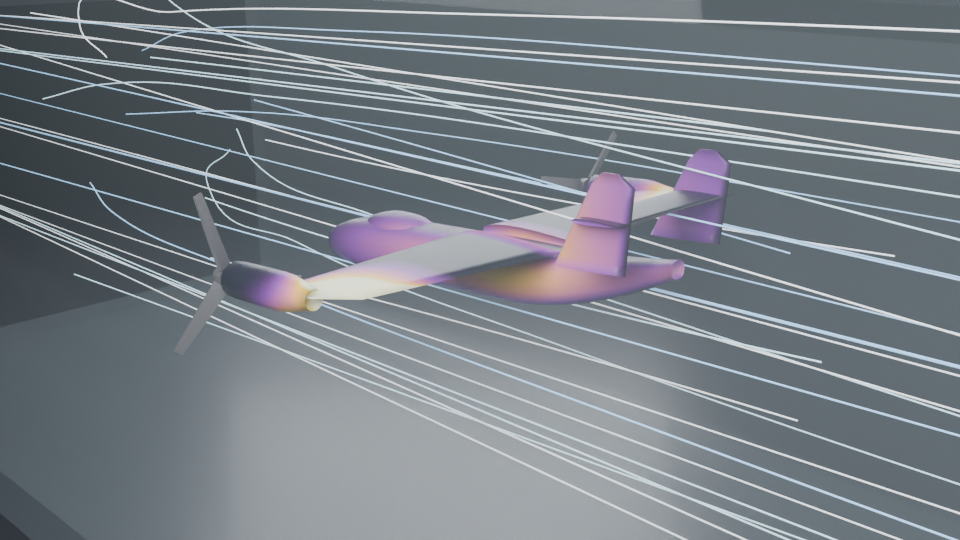
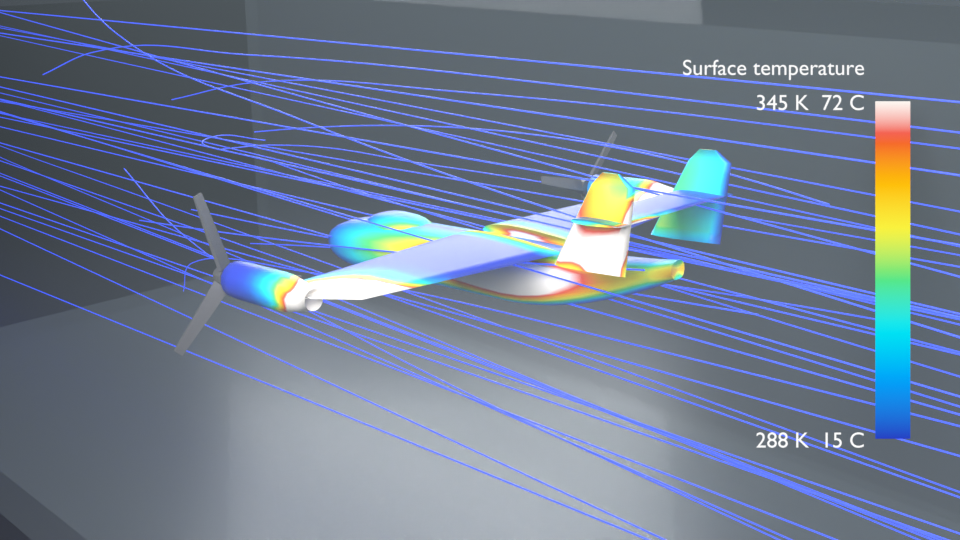
Thermal ramp default, colour bar legend, hot exhaust emitters, final windtunnel renders
Claude-Session: https://claude.ai/code/session_01FQTVSyCcMVSazjTzMiGcBr

diff --git a/arc_flow/thermal.py b/arc_flow/thermal.py
@@ -9,6 +9,7 @@ import math
 
 import bpy
 import numpy as np
+from mathutils import Vector
 from bpy.app.handlers import persistent
 from bpy.props import BoolProperty, EnumProperty, FloatProperty, PointerProperty
 from bpy.types import Operator, Panel, PropertyGroup
@@ -56,11 +57,12 @@ class AF_ThermalObj(PropertyGroup):
     domain: EnumProperty(name="Domain", items=[('POINT', "Points", "One temperature per vertex"), ('FACE', "Faces", "One temperature per face")], default='POINT', update=_changed)
     t_min: FloatProperty(name="Range min", default=288.15, description="K at the cold end of the ramp", update=_look_changed)
     t_max: FloatProperty(name="Range max", default=340.0, description="K at the hot end of the ramp", update=_look_changed)
-    ramp: EnumProperty(name="Ramp", items=TH.RAMP_ITEMS, default='INFERNO', update=_look_changed)
+    ramp: EnumProperty(name="Ramp", items=TH.RAMP_ITEMS, default='THERMAL', update=_look_changed)
     shader: BoolProperty(name="Thermal shader", default=True, update=_look_changed, description="Replace the surface material with the temperature ramp (EEVEE and Cycles). Off restores the original material")
     emission: FloatProperty(name="Glow", default=0.3, min=0.0, max=20.0, update=_look_changed, description="Emission strength of the ramp colour so it reads in any light")
     solid: BoolProperty(name="Solid viewport colour", default=True, update=_look_changed, description="Also write the 'af_thermal_color' attribute and make it the active colour so Solid mode (colour: Attribute) shows it")
     gn: BoolProperty(name="Geometry Nodes output", default=True, update=_look_changed, description="Add the 'Tessera Thermal Surface' Geometry Nodes modifier (normalised value, colour, min / mean / max outputs)")
+    legend: BoolProperty(name="Colour bar legend", default=False, update=_look_changed, description="A colour bar with the minimum and maximum temperature (K and C), attached to the scene camera, so renders carry a legend")
     couple: BoolProperty(name="Heat the fluid", default=False, description="The heat the surface exchanges with the fluid is given back to the particles as heat sources", update=_changed)
     wall_heat: FloatProperty(name="Wall heat capacity", default=4900.0, min=1.0, description="J/(m2 K): density x specific heat x thickness of the skin (2 mm aluminium = 4900)", update=_changed)
     absorb: FloatProperty(name="Absorptivity", default=0.7, min=0.0, max=1.0, description="Fraction of the radiation from heat sources that the surface absorbs", update=_changed)
@@ -457,7 +459,7 @@ def _gn_group(domain):
     b.link(out(gi, 'Max K'), inp(mr, 'From Max'))
     cr = b.node('ShaderNodeValToRGB', y=120, x=200)
     b.link(out(mr, 'Result'), inp(cr, 'Fac'))
-    st = TH.RAMPS['INFERNO']
+    st = TH.RAMPS['THERMAL']
     ramp = cr.color_ramp
     while len(ramp.elements) > 2:
         ramp.elements.remove(ramp.elements[-1])
@@ -511,10 +513,105 @@ def _solid_view(o):
             me.color_attributes.render_color_index = list(me.color_attributes).index(c)
 
 
+def _legend_names(o):
+    b = "Thermal Legend %s" % o.name
+    return b, (b + " max", b + " min", b + " title")
+
+
+def remove_legend(o):
+    b, ts = _legend_names(o)
+    for n in (b,) + ts:
+        ob = bpy.data.objects.get(n)
+        if ob is not None:
+            d = ob.data
+            bpy.data.objects.remove(ob, do_unlink=True)
+            if d is not None and d.users == 0:
+                (bpy.data.meshes if isinstance(d, bpy.types.Mesh) else bpy.data.curves).remove(d)
+
+
+def ensure_legend(o, scene=None):
+    """Colour bar with the range in K and C: a gradient plane and three text objects, parented to the scene camera (or beside the object)."""
+    sc = scene or bpy.context.scene
+    p = o.arc_flow_th
+    remove_legend(o)
+    cam = sc.camera
+    col = sc.collection
+    if cam is not None:
+        d = 1.0
+        hw = d * (cam.data.sensor_width / 2.0) / cam.data.lens
+        aspect = sc.render.resolution_y / max(sc.render.resolution_x, 1)
+        hh = hw * aspect
+        bh, bw = hh * 1.25, hh * 0.13
+        cx, cy = hw * 0.86, 0.0
+        origin = (cx, cy, -d)
+    else:
+        bh, bw, cx, cy = 0.5, 0.06, 0.0, 0.0
+        origin = tuple(o.matrix_world.translation + Vector((0.0, -1.0, 0.0)))
+    name, (tmax, tmin, ttl) = _legend_names(o)
+    n = 32
+    me = bpy.data.meshes.new(name)
+    verts = [(sx * bw / 2, (i / n - 0.5) * bh, 0.0) for i in range(n + 1) for sx in (-1, 1)]
+    faces = [(2 * i, 2 * i + 1, 2 * i + 3, 2 * i + 2) for i in range(n)]
+    me.from_pydata(verts, [], faces)
+    rgb = TH.ramp_color(np.repeat(np.linspace(0, 1, n + 1), 2), p.ramp)
+    ca = me.color_attributes.new("Legend", 'FLOAT_COLOR', 'POINT')
+    ca.data.foreach_set('color', np.concatenate([rgb, np.ones((len(rgb), 1))], axis=1).astype(np.float32).ravel())
+    me.color_attributes.active_color = ca
+    mat = bpy.data.materials.new(name)
+    nt = enable_nodes(mat)
+    nt.nodes.clear()
+    b = Builder(nt)
+    at = b.node('ShaderNodeAttribute', y=0); at.attribute_name = "Legend"; at.attribute_type = 'GEOMETRY'
+    em = b.node('ShaderNodeEmission', y=0)
+    eo = b.node('ShaderNodeOutputMaterial', y=0)
+    b.link(out(at, 'Color'), inp(em, 'Color'))
+    b.link(out(em, 'Emission'), inp(eo, 'Surface'))
+    mat.diffuse_color = (1, 1, 1, 1)
+    me.materials.append(mat)
+    plane = bpy.data.objects.new(name, me)
+    col.objects.link(plane)
+    tmat = bpy.data.materials.new(name + " text")
+    tnt = enable_nodes(tmat)
+    tnt.nodes.clear()
+    tb = Builder(tnt)
+    te = tb.node('ShaderNodeEmission', y=0)
+    inp(te, 'Color').default_value = (1, 1, 1, 1)
+    to = tb.node('ShaderNodeOutputMaterial', y=0)
+    tb.link(out(te, 'Emission'), inp(to, 'Surface'))
+    tmat.diffuse_color = (1, 1, 1, 1)
+    objs = [plane]
+    size = bh * 0.065
+    for nm, body, ty in ((tmax, "%.0f K  %.0f C" % (p.t_max, p.t_max - 273.15), bh / 2 - size * 0.4), (tmin, "%.0f K  %.0f C" % (p.t_min, p.t_min - 273.15), -bh / 2 - size * 0.4),
+                         (ttl, "Surface temperature", bh / 2 + size * 1.2)):
+        cu = bpy.data.curves.new(nm, 'FONT')
+        cu.body, cu.size = body, size
+        cu.align_x = 'RIGHT' if nm != ttl else 'RIGHT'
+        cu.materials.append(tmat)
+        t = bpy.data.objects.new(nm, cu)
+        col.objects.link(t)
+        t.location = (-bw * 0.8, ty, 0.0)
+        t.parent = plane
+        objs.append(t)
+    plane.parent = cam
+    plane.location = origin
+    if cam is None:
+        plane.rotation_euler = (math.pi / 2, 0, 0)
+    for ob in objs:
+        ob['af_th_legend'] = o.name
+    return plane
+
+
 def refresh_look(o):
     p = o.arc_flow_th
     if not p.on:
         return
+    if p.legend:
+        try:
+            ensure_legend(o)
+        except Exception as ex:
+            FO.RT.msg = "Legend: %s" % ex
+    else:
+        remove_legend(o)
     if p.shader:
         _apply_material(o)
     else:
@@ -544,6 +641,7 @@ def enable(o):
 def disable(o):
     STATE.pop(o.name, None)
     _restore_material(o)
+    remove_legend(o)
     m = o.modifiers.get(MOD_NAME)
     if m is not None:
         o.modifiers.remove(m)
@@ -647,7 +745,7 @@ class AF_PT_thermal(Panel):
         r.prop(p, "t_min"); r.prop(p, "t_max")
         col.prop(p, "ramp")
         col = l.column(align=True)
-        col.prop(p, "shader"); col.prop(p, "solid"); col.prop(p, "gn"); col.prop(p, "couple")
+        col.prop(p, "shader"); col.prop(p, "solid"); col.prop(p, "gn"); col.prop(p, "legend"); col.prop(p, "couple")
         if p.shader:
             col.prop(p, "emission")
         box = l.box()

diff --git a/docs/render_windtunnel.py b/docs/render_windtunnel.py
@@ -37,7 +37,8 @@ sc.frame_start, sc.frame_end = 1, FRAME + 2
 air = bpy.data.objects["Aircraft Airframe"]
 p = air.arc_flow_th
 p.t_min, p.t_max = 288.15, 345.0
-p.ramp = 'INFERNO'
+p.speedup, p.wall_heat = 60.0, 600.0
+p.ramp = 'THERMAL'
 p.emission = 0.0
 FO.start(sc, play=False)
 for f in range(1, FRAME + 1):
@@ -70,7 +71,7 @@ def pathlines():
     (a cubic fit in time removes the parcel jitter) and drawn as thin tubes coloured by speed."""
     cache = FO.RT.cache
     frames = [f for f in sorted(cache) if f <= FRAME][-5:]
-    n0 = min(len(cache[f]['x']) for f in sorted(cache) if f <= FRAME)
+    n0 = min(len(cache[f]["x"]) for f in frames)
     X = np.stack([cache[f]['x'][:n0] for f in frames])
     V = np.stack([np.linalg.norm(cache[f]['v'][:n0], axis=1) for f in frames])
     ctr = np.array(air.matrix_world.translation)
@@ -92,18 +93,34 @@ def pathlines():
     cu.bevel_depth = 0.002
     cu.bevel_resolution = 3
     cu.use_fill_caps = True
-    for nm, col in (("slow", (0.35, 0.65, 1.0)), ("mid", (0.6, 0.88, 1.0)), ("fast", (0.95, 0.98, 1.0))):
-        m = bpy.data.materials.new("WT_Path_" + nm)
+    NB = 8
+    ambient = float(sc.arc_flow.env.temperature)
+    lo, hi = p.t_min, p.t_max
+    for i in range(NB):
+        col = TM.TH.ramp_color(np.array([i / (NB - 1)]), 'THERMAL')[0]
+        m = bpy.data.materials.new("WT_Path_%d" % i)
         m.use_nodes = True
-        b = m.node_tree.nodes['Principled BSDF']
-        b.inputs['Base Color'].default_value = (*col, 1)
-        b.inputs['Emission Color'].default_value = (*col, 1)
-        b.inputs['Emission Strength'].default_value = 0.9
-        b.inputs['Roughness'].default_value = 0.4
+        bs = m.node_tree.nodes['Principled BSDF']
+        bs.inputs['Base Color'].default_value = (*col, 1)
+        bs.inputs['Emission Color'].default_value = (*col, 1)
+        bs.inputs['Emission Strength'].default_value = 1.6
+        bs.inputs['Roughness'].default_value = 0.4
         m.diffuse_color = (*col, 1)
         cu.materials.append(m)
-    vmean = V.mean(axis=0)
-    q = np.quantile(vmean[pick], [0.33, 0.66]) if pick else (0, 0)
+    Tm = np.stack([cache[f]['T'][:n0] for f in frames]).mean(axis=0)
+    # hot plume tracers: the hottest particles downstream of the exhausts
+    ex = [np.array(e.matrix_world.translation) for e in bpy.data.objects if e.name.startswith("Engine Exhaust")]
+    hot = []
+    if ex:
+        dd = np.min([np.linalg.norm(last - e, axis=1) for e in ex], axis=0)
+        cand = np.flatnonzero((dd < 1.4) & (last[:, 0] > min(e[0] for e in ex) - 0.05) & (net > 0.25))
+        cand = cand[Tm[cand] < ambient + 400.0]
+        cand = cand[np.argsort(-Tm[cand])][:14]
+        for j in cand:
+            if all(np.linalg.norm(last[j] - last[i]) > 0.05 for i in hot):
+                hot.append(j)
+    print("plume tracers", len(hot), "hottest tracer %.1f K" % (Tm[hot].max() if hot else 0), flush=True)
+    pick = list(pick) + [j for j in hot if j not in pick]
     tt = np.linspace(-1, 1, len(frames))
     ts = np.linspace(-1, 1, 12)
     for j in pick:
@@ -113,7 +130,7 @@ def pathlines():
         for bp, pt in zip(sp.bezier_points, sm):
             bp.co = pt
             bp.handle_left_type = bp.handle_right_type = 'AUTO'
-        sp.material_index = 0 if vmean[j] < q[0] else (1 if vmean[j] < q[1] else 2)
+        sp.material_index = int(np.clip((Tm[j] - lo) / max(hi - lo, 1e-6), 0, 1) * (NB - 1))
     print("pathlines", len(pick), "candidates", len(ok_), flush=True)
     o = bpy.data.objects.new("WT_Paths", cu)
     sc.collection.objects.link(o)
@@ -170,10 +187,12 @@ for case in CASES:
         sc.cycles.samples = SAMPLES
         sc.cycles.use_denoising = True
         sc.cycles.max_bounces = 5
-        sc.view_settings.view_transform = 'AgX'
+        sc.view_settings.view_transform = 'Standard'
         scene_look()
         pathlines()
         camera((1.9, -1.9, 1.55), (ctr.x + 0.0, 0.0, ctr.z - 0.02), 42)
+        p.legend = False
+        p.legend = True
         r.filepath = os.path.join(OUT, 'windtunnel_thermal.png')
     else:
         r.engine = 'BLENDER_WORKBENCH'
@@ -193,6 +212,8 @@ for case in CASES:
         tun = bpy.data.objects["Wind Tunnel"]
         tun.hide_render = True
         camera((-1.7, -2.6, 1.7), (ctr.x + 0.1, 0.0, ctr.z - 0.1), 32)
+        p.legend = False
+        p.legend = True
         r.filepath = os.path.join(OUT, 'windtunnel_viewport.png')
     bpy.ops.render.render(write_still=True)
     print("rendered", r.filepath, flush=True)

diff --git a/arc_flow/windtunnel.py b/arc_flow/windtunnel.py
@@ -492,18 +492,52 @@ def add_aircraft(scene, location=None, thermal=True, spin_frames=(1, 250), rpm=1
         e.matrix_parent_inverse = air.matrix_world.inverted()
         e.location = tuple(p)          # parent inverse is identity (the airframe was still at the origin when parented)
         e.arc_flow_fm.heat_on = True
-        e.arc_flow_fm.heat_power = 1500.0
-        e.arc_flow_fm.heat_radius = 0.10
+        e.arc_flow_fm.heat_power = 2500.0
+        e.arc_flow_fm.heat_radius = 0.12
         heats.append(e)
+    nozzles = []
+    try:
+        from . import surfaces_ops as SO
+        for i, p in enumerate(vtol.EXHAUSTS):
+            side = "R" if i == 0 else "L"
+            bm = bmesh.new()
+            bmesh.ops.create_grid(bm, x_segments=1, y_segments=1, size=0.5)
+            for v in bm.verts:
+                v.co = (0.0, v.co.x * 0.07, v.co.y * 0.07)
+            nz = _mesh_obj("Engine Nozzle %s" % side, bm, col)
+            nz.parent = air
+            nz.location = (p[0] - 0.035, p[1], p[2])
+            nz.hide_render = True
+            nz.display_type = 'WIRE'
+            sr = SO.srf(scene)
+            e = sr.items.add()
+            e.kind, e.name, e.obj, e.preset = 'EMISSION', "Exhaust %s" % side, nz, 'AIR'
+            e.rate, e.speed, e.spread, e.temperature = 500.0, 22.0, 6.0, 460.0
+            e.max_particles = 3000
+            SO.store_faces(e, np.ones(len(nz.data.polygons), bool))
+            SO.sync_source(scene, e)
+            fl = SO.fluid_of(scene, e)
+            if fl is not None:
+                fl.color = (1.0, 0.7, 0.4)
+                fl.render_mode = 'POINTS'
+                fl.particle_scale = 0.5
+            try:
+                from . import surfaces_gn as SGN
+                SGN.ensure_modifier(nz, e)
+            except Exception:
+                pass
+            nozzles.append(nz)
+    except Exception as ex:
+        FO.RT.msg = "Engine exhaust emitters: %s" % ex
     for o in [air] + rotors:
         mark_body(o)
     air.arc_flow_fm.friction = 0.15
     for r in rotors:
         r.arc_flow_fm.friction = 0.6
     if thermal:
-        air.arc_flow_th.t_min, air.arc_flow_th.t_max = 288.15, 312.0
-        air.arc_flow_th.speedup = 400.0
-        air.arc_flow_th.ramp = 'COLD_HOT'
+        air.arc_flow_th.t_min, air.arc_flow_th.t_max = 288.15, 345.0
+        air.arc_flow_th.speedup = 60.0
+        air.arc_flow_th.wall_heat = 600.0
         air.arc_flow_th.on = True
     return air, rotors, heats
 
@@ -530,7 +564,7 @@ def _linear(o):
 
 def load_example(scene, with_thermal=True):
     """Example: Wind tunnel.  Clears the previous tunnel objects and builds tunnel, air, aircraft, thermal readback."""
-    for n in ("Aircraft Rotor R", "Aircraft Rotor L", "Aircraft Airframe", "Engine Exhaust R", "Engine Exhaust L"):
+    for n in ("Aircraft Rotor R", "Aircraft Rotor L", "Aircraft Airframe", "Engine Exhaust R", "Engine Exhaust L", "Engine Nozzle R", "Engine Nozzle L"):
         _remove(n)
     wt = scene.arc_flow_wt
     wt.source, wt.atmosphere = 'PRESET', 'EARTH'

diff --git a/arc_flow/core/thermal.py b/arc_flow/core/thermal.py
@@ -24,6 +24,8 @@ SIGMA = 5.670374e-8
 H_NATURAL = 5.0
 
 RAMPS = {
+    'THERMAL': [(0.00, (0.02, 0.05, 0.55)), (0.17, (0.00, 0.35, 0.95)), (0.33, (0.00, 0.80, 0.90)), (0.48, (0.10, 0.80, 0.20)),
+                (0.62, (0.95, 0.90, 0.05)), (0.76, (1.00, 0.50, 0.00)), (0.90, (0.90, 0.07, 0.03)), (1.00, (1.00, 0.95, 0.90))],
     'INFERNO': [(0.00, (0.001, 0.000, 0.014)), (0.20, (0.258, 0.039, 0.406)), (0.40, (0.578, 0.148, 0.404)),
                 (0.60, (0.865, 0.317, 0.226)), (0.80, (0.988, 0.645, 0.040)), (1.00, (0.988, 1.000, 0.645))],
     'TURBO': [(0.00, (0.190, 0.072, 0.232)), (0.17, (0.275, 0.440, 0.900)), (0.35, (0.100, 0.800, 0.800)),
@@ -32,11 +34,11 @@ RAMPS = {
                  (0.70, (0.960, 0.600, 0.200)), (1.00, (0.800, 0.050, 0.030))],
     'GRAY': [(0.00, (0.02, 0.02, 0.02)), (1.00, (1.0, 1.0, 1.0))],
 }
-RAMP_ITEMS = [('INFERNO', "Inferno", "Black, purple, orange, pale yellow"), ('TURBO', "Turbo", "Blue, green, yellow, red"),
+RAMP_ITEMS = [('THERMAL', "Thermal", "Deep blue, cyan, green, yellow, orange, red, white-hot"), ('INFERNO', "Inferno", "Black, purple, orange, pale yellow"), ('TURBO', "Turbo", "Blue, green, yellow, red"),
               ('COLD_HOT', "Cold to hot", "Blue, white, red"), ('GRAY', "Grayscale", "")]
 
 
-def ramp_color(t, ramp='INFERNO'):
+def ramp_color(t, ramp='THERMAL'):
     """Colour (n, 3) for normalised values t in [0, 1] (piecewise linear, same stops as the shader ramp)."""
     t = np.clip(np.asarray(t, float), 0.0, 1.0)
     st = RAMPS[ramp]

diff --git a/tests/test_thermal.py b/tests/test_thermal.py
@@ -78,7 +78,8 @@ ok(src and abs(tot - 20.0 * 50.0 * 4.0 * 1.0) / (20.0 * 50.0 * 4.0) < 0.2 and al
 ok(all(s[1] < 0 for s in TH.patch_sources(Pp, area, np.full(400, 250.0), info, 0.5)), "cold wall cools the fluid")
 
 # ramp
-c = TH.ramp_color(np.array([0.0, 0.5, 1.0]), 'INFERNO')
+c = TH.ramp_color(np.array([0.0, 0.5, 1.0]), 'THERMAL')
+ok(c[0][2] > c[0][0] and c[1][1] > c[1][2] and c[2].min() > 0.85, 'thermal ramp: blue cold, green middle, white hot')
 ok(c.shape == (3, 3) and c[0].sum() < c[2].sum(), "ramp colours")
 print("FAILED %d" % fails[0] if fails[0] else "ALL PASS")
 sys.exit(1 if fails[0] else 0)

diff --git a/CHANGELOG.md b/CHANGELOG.md
@@ -10,11 +10,10 @@
 - Fluid mode: **viscosity surface is bidirectional.** A surface on a dynamic body (Blender: the surface object is a two-way body) drags the fluid and the fluid's drag and excess pressure act back on the body as force and torque about its centre of mass (explicit, one frame of lag), moving it when it is free or constrained (slider, hinge).
 - Fluid mode: **smooth merged liquid surface.** Liquids render by default as one continuously updated surface (`SurfaceBuilder`: trilinear splat, Gaussian blur, EMA temporal blend, surface nets, density-weighted vertex colour), so touching blobs of different fluids join with a neck and blend colour across the seam, with no flicker. The glass-of-colours stills are re-rendered with it.
 - Tests: `test_gas_pressure`, `test_surface_coupling`, `test_surface_builder` in `tests/test_fluidmode.py`.
-- Fluid mode: **Thermal readback** (`thermal.py`, `core/thermal.py`). Select an object (or its faces in Edit Mode, *Use Selected Faces*) of a collision body and enable it: every point or face carries a wall temperature that follows the solver particles around it (kernel probe, recovery temperature `T + r v^2 / 2cp`, flat-plate convection with a natural-convection floor, radiation from heat sources with inverse-square and facing factor, stagnation heating of windward faces, lumped wall heat capacity, re-radiation, exact exponential step). It is written each frame to the `af_temperature` attribute (point or face domain) and to a colour attribute `af_thermal_color` (Solid viewport, colour: Attribute); the shader (colour ramp, range min / max, glow) shows it in EEVEE and Cycles, and an optional Geometry Nodes modifier / group `Tessera Thermal Surface (Point|Face)` outputs the normalised value, the ramp colour and min / mean / max. Per-object toggle, ramp (Inferno, Turbo, Cold to hot, Grayscale), absorptivity, wall heat capacity, probe radius and time scale. *Heat the fluid* gives the exchanged heat back to the particles as heat sources. Moving and deforming bodies are read from the evaluated mesh; scrubbing reuses the per-frame cache.
-- **Shader presets** (`shader_presets.py`, `shader_ops.py`): 22 node-built, Cycles + EEVEE materials (Water, Sea water, Glass, Thin-wall glass, Oil, Honey, Syrup, Milk / cream, Wax, Lava / magma, Mercury, Molten metal, Slime / goo, Blood, Ice, Crystal, Smoke, Steam, Soot, Flame, Plasma, Gas cloud) with exposed parameters (`TS_*` nodes: colour, absorption density, IOR, roughness, subsurface, emission ...), attribute inputs (`fm_color` tint, `fm_temperature` blackbody / crust / glow, `fm_density` scaling) and variants: full (refraction + absorption volume), particle (no refraction, volumes add up), preview (Principled only) and grid (OpenVDB `density` / `temperature`). Socket names are resolved at runtime (4.x / 5.x). New *Shader presets* panel: preset dropdown, assign to selected / active, create from preset, preview mode, Cycles shadow-caustics set-up, per-fluid shader (Auto = default of the fluid preset), assign preset to selected fluid(s); works on meshes, curves, text, volumes. Examples use the shaders (thin-wall glass vessels, water, wax). Reference `docs/SHADERS.md`. Reference `docs/SHADERS.md`. Tests `tests/test_shaders_bpy.py`; renders `docs/render_shaders.py`, `docs/renders/shaders_*.png`.
-- Fluid mode: **Thermal readback** (`thermal.py`, `core/thermal.py`). Select an object (or its faces in Edit Mode, *Use Selected Faces*) of a collision body and enable it: every point or face carries a wall temperature that follows the solver particles around it (kernel probe, recovery temperature `T + r v^2 / 2cp`, flat-plate convection with a natural-convection floor, radiation from heat sources with inverse-square and facing factor, lumped wall heat capacity, exact exponential step). It is written each frame to the `af_temperature` attribute (point or face domain) and to a colour attribute `af_thermal_color` (Solid viewport, colour: Attribute); the shader (colour ramp, range min / max, glow) shows it in EEVEE and Cycles, and an optional Geometry Nodes modifier / group `Tessera Thermal Surface (Point|Face)` outputs the normalised value, the ramp colour and min / mean / max. Per-object toggle, ramp (Inferno, Turbo, Cold to hot, Grayscale), absorptivity, wall heat capacity, probe radius and wall speed-up. *Heat the fluid* gives the exchanged heat back to the particles as heat sources. Moving and deforming bodies are read from the evaluated mesh; scrubbing reuses the per-frame cache.
+- **Shader presets** (`shader_presets.py`, `shader_ops.py`): 22 node-built, Cycles + EEVEE materials (Water, Sea water, Glass, Thin-wall glass, Oil, Honey, Syrup, Milk / cream, Wax, Lava / magma, Mercury, Molten metal, Slime / goo, Blood, Ice, Crystal, Smoke, Steam, Soot, Flame, Plasma, Gas cloud) with exposed parameters (`TS_*` nodes: colour, absorption density, IOR, roughness, subsurface, emission ...), attribute inputs (`fm_color` tint, `fm_temperature` blackbody / crust / glow, `fm_density` scaling) and variants: full (refraction + absorption volume), particle (no refraction, volumes add up), preview (Principled only) and grid (OpenVDB `density` / `temperature`). Socket names are resolved at runtime (4.x / 5.x). New *Shader presets* panel: preset dropdown, assign to selected / active, create from preset, preview mode, Cycles shadow-caustics set-up, per-fluid shader (Auto = default of the fluid preset), assign preset to selected fluid(s); works on meshes, curves, text, volumes. Examples use the shaders (thin-wall glass vessels, water, wax). Tests `tests/test_shaders_bpy.py`; renders `docs/render_shaders.py`, `docs/renders/shaders_*.png`.
+- Fluid mode: **Thermal readback** (`thermal.py`, `core/thermal.py`). Select an object (or its faces in Edit Mode, *Use Selected Faces*) of a collision body and enable it: every point or face carries a wall temperature that follows the solver particles around it (kernel probe, recovery temperature `T + r v^2 / 2cp`, flat-plate convection with a natural-convection floor, radiation from heat sources with inverse-square and facing factor, stagnation heating of windward faces, lumped wall heat capacity, re-radiation, exact exponential step). It is written each frame to the `af_temperature` attribute (point or face domain) and to a colour attribute `af_thermal_color` (Solid viewport, colour: Attribute); the shader (colour ramp, range min / max, glow) shows it in EEVEE and Cycles, and an optional Geometry Nodes modifier / group `Tessera Thermal Surface (Point|Face)` outputs the normalised value, the ramp colour and min / mean / max. Per-object toggle, ramp (Thermal default: deep blue, cyan, green, yellow, orange, red, white-hot; Inferno, Turbo, Cold to hot, Grayscale), an optional colour bar legend (gradient plane and K / C labels parented to the camera), absorptivity, wall heat capacity, probe radius and time scale. *Heat the fluid* gives the exchanged heat back to the particles as heat sources. Moving and deforming bodies are read from the evaluated mesh; scrubbing reuses the per-frame cache.
 - Fluid mode: **Wind tunnel** builder (`windtunnel.py`): a hollow box with a real wall thickness (open ends or closed) as the Environment container, a Wind Emitter (an Emission surface at the inlet, rate capped) plus an air slug that fills the test section, atmosphere from the Blender scene, an assigned container or a preset (Earth, Mars, Venus, Titan, Moon, vacuum, custom gas with pressure, temperature, gravity and compound; the Air fluid gets its density, viscosity, cp and conductivity from the gas). *Add Collision Body* / *Add Plain Body*: a **plain collision body** only responds to the fluid (no heat source, no thermal readback, no Systems role). Moving parts (object animation) are moving colliders; shape-key / armature deformers re-project their collision field every frame. Parts with Container / Channel / Chamber roles inside the tunnel stay independent Systems.
-- Example: **Example: Wind tunnel** (Examples panel): the tunnel, the wind and a tilt-rotor VTOL with spinning rotors, engine exhaust heat sources and thermal readback on its skin. The DART Skyboard game's VTOL could not be reached from the available repositories (the only Skyboard asset there is an unrelated part), so the aircraft is a procedural stand-in (`assets/vtol.py`, about 2000 vertices, no binary data).
+- Example: **Example: Wind tunnel** (Examples panel): the tunnel, the wind and a tilt-rotor VTOL with spinning rotors, engine exhaust heat sources and hot exhaust emitters and thermal readback on its skin. The DART Skyboard game's VTOL could not be reached from the available repositories (the only Skyboard asset there is an unrelated part), so the aircraft is a procedural stand-in (`assets/vtol.py`, about 2000 vertices, no binary data).
 - Tests: `tests/test_thermal.py` (NumPy), `tests/test_windtunnel_bpy.py`; renders `docs/render_windtunnel.py`, `docs/renders/windtunnel_*.png`.
 - Fluid mode: **Viscosity surface** and **Emission surface** sources. Buttons *Use selected object*, *Edit faces* (Edit Mode, stored faces preselected) and *Apply* (stores a boolean face attribute). Viscosity: tangential drag of the adjacent fluid with a viscosity coefficient and no-slip fraction, moving surfaces drag the fluid, reaction force read back. Emission: particles/s along the face normal with speed, spread cone, temperature, fluid preset, start / stop, cap; the solver grows its arrays and snapshots stay exact (scrubbing, Reset).
 - Fluid mode: **Add Fluid Volume** (non-rendering wireframe-box Empty, scale it with the manipulators): quantity, density, pressure, temperature and preset; free-floating gas / fluid that interacts with the Environment from the first frame.

diff --git a/docs/TECHNICAL.md b/docs/TECHNICAL.md
@@ -274,6 +274,7 @@ Tests: `blender -b --factory-startup --python tests/test_gn_blender.py` (groups,
 **Thermal readback** (`thermal.py` Blender bridge, `core/thermal.py` NumPy model; tests `tests/test_thermal.py`, `tests/test_windtunnel_bpy.py`). Sidebar: Fluid mode > Thermal readback (active object).
 - Samples: every mesh point or face centre of the selected object (Edit Mode faces via *Use Selected Faces*, stored in the face attribute `af_th_mask`). Positions and normals come from the evaluated mesh, so shape keys, armatures and object / parent animation move the samples; if a generative modifier changes the topology the original mesh is used instead.
 - Model: per sample the particles inside the probe radius (default 2.2 particle spacings; for sparse gas the spacing is the volume one parcel stands for) are averaged with the weight (1 - d/h)^2 to T_f, v_f, cp, k, rho, mu; coverage = kernel weight / the weight of a fully packed half space. Recovery temperature T_r = T_f + r |v_f - v_wall|^2 / 2cp (r = 0.85); target T_eq = c T_r + (1 - c) T_ambient; convection h = max(Nu k / L, 5 W/(m2 K) k/k_air) with the flat-plate Nusselt number (laminar 0.664 Re^1/2 Pr^1/3, turbulent 0.037 Re^4/5 Pr^1/3, L = object size); absorbed radiation alpha P / (4 pi d^2) cos(angle) from every heat-source object (distance floored at the source radius); re-radiation eps sigma (T^4 - T_amb^4) linearised; lumped wall of areal heat capacity C_a (default 4900 J/(m2 K) = 2 mm aluminium); exact exponential step, so it is unconditionally stable. *Time scale* (default 1 = real time; the example uses 20 with a 1 mm skin of 1500 J/(m2 K)) multiplies the wall's time step because a metal skin needs minutes to heat. Windward faces also get stagnation heating r |v_inf|^2 cos^2 / 2cp from the Environment wind (about 0.1 K at 14 m/s: the visible gradient in the example comes from the engine exhaust heat sources).
+- Colour bar: *Colour bar legend* adds `Thermal Legend <object>` (gradient plane with a colour attribute for Workbench, text labels with min / max in K and C) parented to the scene camera. Default ramp *Thermal* (deep blue, cyan, green, yellow, orange, red, white-hot).
 - Output: `af_temperature` (FLOAT, point or face domain), `af_thermal_color` (colour attribute, point or corner domain, for Solid mode with colour: Attribute), material `Tessera Thermal <object>` (Attribute node > Map Range > Color Ramp > Principled base colour + emission; EEVEE and Cycles; the original materials are restored when the shader is turned off, with a face selection the shader sits in an extra slot on the selected faces only), Geometry Nodes group `Tessera Thermal Surface (Point|Face)` as the modifier `Tessera Surface Temperature` (outputs: geometry with `af_temperature_norm` and `af_temperature_color`, min / mean / max temperature; also in the Add menu).
 - Time: state per object and frame is cached (scrubbing back and forth reproduces the same temperatures); the update runs in a `frame_change_post` handler after the fluid step. Opening a file with a cold cache replays at most 400 frames from the start frame, using the current positions of the samples.
 - *Heat the fluid* (off by default): the heat the wall exchanges with the air is gathered into at most 24 patches and added to the solver's heat sources (power limited to +-2 kW per patch). Limits: no conjugate heat transfer (no lateral conduction along the wall, no heat conduction through thick bodies), flat-plate convection is a correlation rather than a resolved boundary layer, the probe sees particles at the solver's spacing, so details smaller than about two spacings are averaged.
